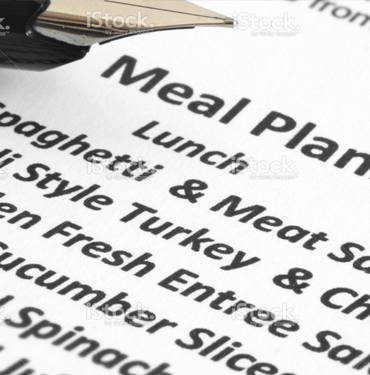
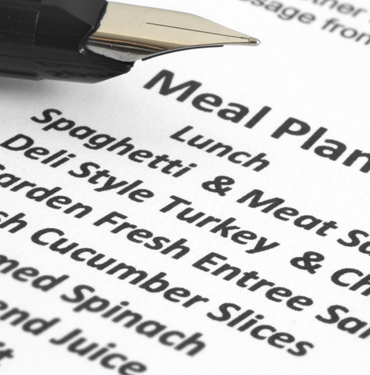
MAIN PAGE COMPLETE! New purchased pictures, new descriptions, and small fixes. Only thing missing is the link for the generate button

diff --git a/app/assets/stylesheets/main.css b/app/assets/stylesheets/main.css
@@ -34,7 +34,8 @@ input {
 .navbar-inverse {
   background-color: #009c7b;
   border: none;
-  margin-bottom: 0; }
+  margin-bottom: 0;
+  height: 50px; }
   .navbar-inverse .navbar-brand {
     color: white;
     font-family: 'Oleo Script', cursive;
@@ -190,7 +191,7 @@ footer {
 
 /* default-button */
 .btn-app, .btn-plus-add {
-  background-color: #9e1754;
+  background-color: #009c7b;
   opacity: 0.5;
   -webkit-transition: all 0.1s ease-in-out 0s;
   -moz-transition: all 0.1s ease-in-out 0s;
@@ -243,6 +244,8 @@ footer {
     font-size: 2em;
     font-family: 'Oleo Script', cursive;
     font-weight: bold; }
+  .main-thumbnail p {
+    height: 120px; }
   .main-thumbnail a {
     font-size: 1.2em; }
 
@@ -250,12 +253,6 @@ footer {
   background-color: rgba(107, 66, 88, 0.9);
   opacity: 1;
   position: relative; }
-  .img-box a {
-    position: absolute;
-    top: 50%;
-    left: 50%;
-    transform: translate(-50%, -50%);
-    display: none; }
   .img-box .img-responsive {
     -webkit-transition: all 0.3s ease-in-out 0s;
     -moz-transition: all 0.3s ease-in-out 0s;
@@ -263,8 +260,18 @@ footer {
     transition: all 0.3s ease-in-out 0s; }
   .img-box:hover .img-responsive {
     opacity: 0.1; }
-  .img-box:hover a {
+  .img-box:hover .btn-main-container a {
     display: block; }
+
+.btn-main-container {
+  position: absolute;
+  top: 50%;
+  left: 50%;
+  transform: translate(-50%, -50%); }
+  .btn-main-container a {
+    display: block;
+    margin-bottom: 15px;
+    display: none; }
 
 .have-avoid-panel .list-group {
   /* food item * 5 */

diff --git a/app/assets/stylesheets/pages/_main_page.scss b/app/assets/stylesheets/pages/_main_page.scss
@@ -43,6 +43,10 @@
     font-weight: bold;
   }
 
+  p {
+    height: 120px;
+  }
+
   a {
     font-size: 1.2em;
   }
@@ -52,14 +56,6 @@
   background-color: rgba(107, 66, 88, 0.90);
   opacity: 1;
   position: relative;
-
-  a {
-    position: absolute;
-    top: 50%;
-    left: 50%;
-    transform: translate(-50%, -50%);
-    display: none;
-  }  
   
   .img-responsive {
     @include transition(all 0.3s ease-in-out 0s);
@@ -71,8 +67,21 @@
       opacity: 0.1;
     }
 
-    a {
+    .btn-main-container a {
       display: block;
     }
   }
+}
+
+.btn-main-container {
+  position: absolute;
+  top: 50%;
+  left: 50%;
+  transform: translate(-50%, -50%);
+
+  a {
+    display: block;
+    margin-bottom: 15px;
+    display: none;
+  }  
 }

diff --git a/app/assets/stylesheets/components/_buttons.scss b/app/assets/stylesheets/components/_buttons.scss
@@ -28,7 +28,7 @@
 
 /* default-button */
 .btn-app {
-	background-color: $btn-background;
+	background-color: $navbar-background;
 	opacity: 0.5;
 	@include transition(all 0.1s ease-in-out 0s);
 	color:white;

diff --git a/app/assets/stylesheets/components/_navigation.scss b/app/assets/stylesheets/components/_navigation.scss
@@ -2,6 +2,7 @@
   background-color: $navbar-background;
   border: none;
   margin-bottom: 0;
+  height: 50px;
 
   .navbar-brand {
     color: white;
